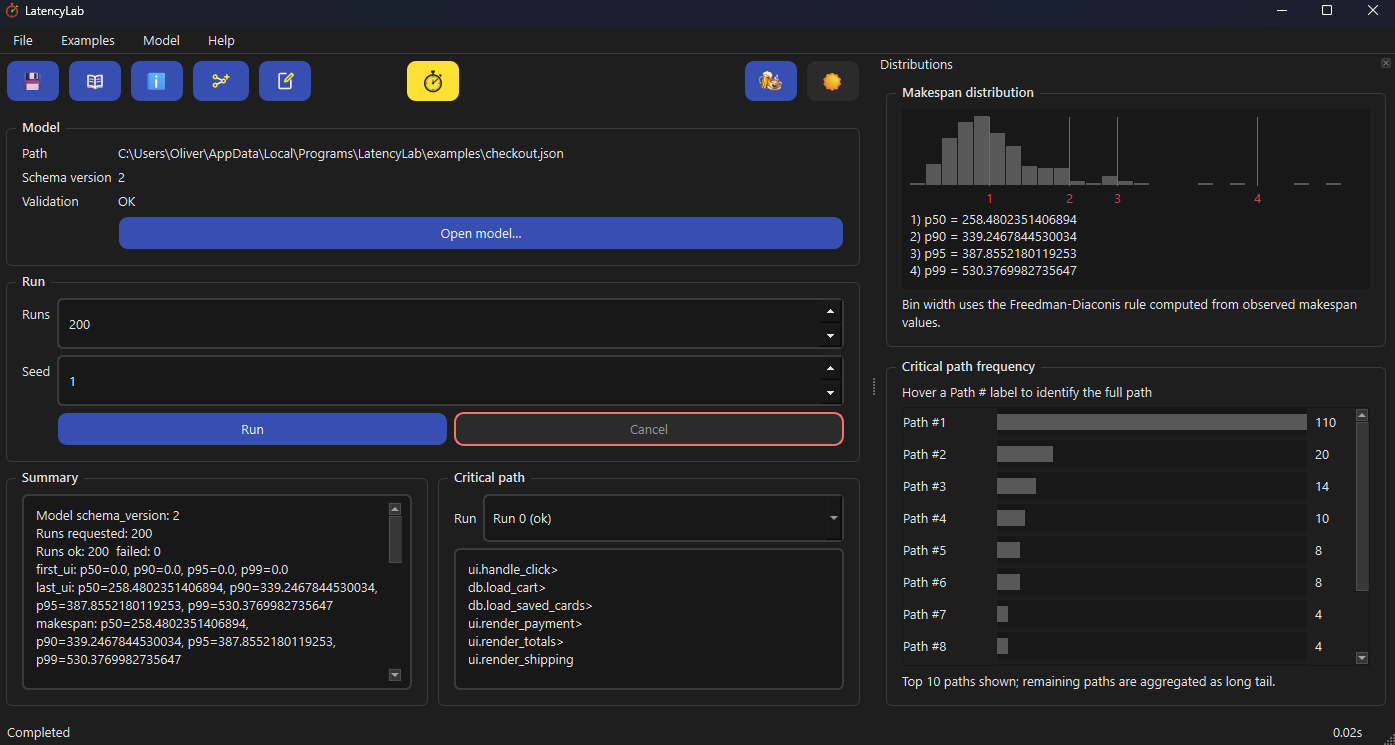
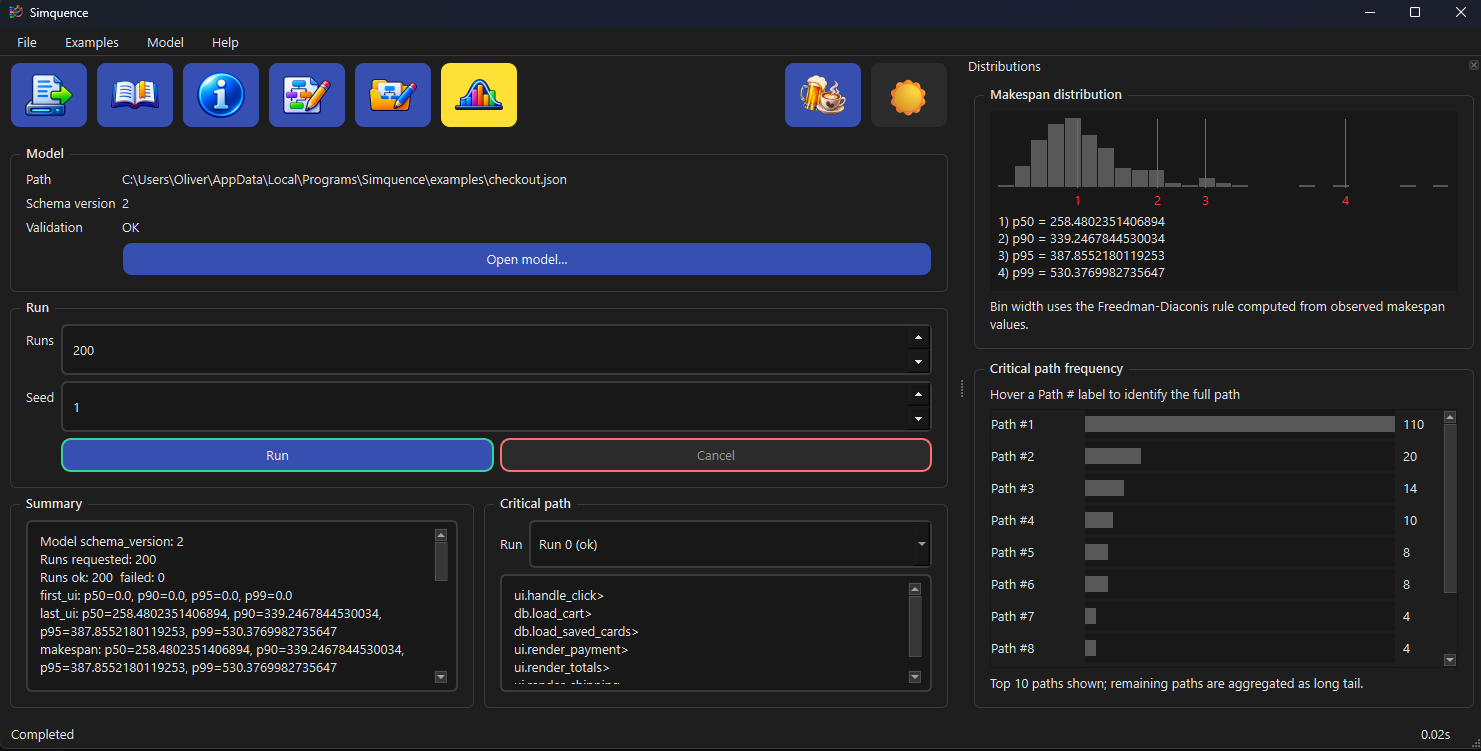
Open the Guide with the toolbar, each control led by its picture
The Guide names every toolbar control left to right, each line led by the picture the toolbar wears and a short tagline, resolved when the Guide opens. The site's main screenshot is retaken for Simquence.

diff --git a/simquence_ui/guide_toolbar.py b/simquence_ui/guide_toolbar.py
@@ -1,0 +1,99 @@
+"""The Guide's toolbar section: every control, led by the picture it wears.
+
+An icon guide showing something other than the icon is worse than no guide, so
+each line carries the same file the toolbar draws, resolved when the Guide
+opens. A picture that cannot be found leaves its line without one rather than
+stopping the Guide from opening.
+"""
+
+from __future__ import annotations
+
+from collections.abc import Callable
+from pathlib import Path
+
+from simquence_ui.icon_resolver import (
+    BOOK_ART,
+    COMPOSE_ART,
+    DISTRIBUTIONS_ART,
+    DONATE_PNG_NAME,
+    INFO_ART,
+    OPEN_EDIT_ART,
+    SAVE_EXPORT_ART,
+    get_asset_path,
+)
+from simquence_ui.theme_toggle import MOON, SUN
+
+# Height of a picture in the text. Large enough that the pictures' detail
+# survives, small enough to sit on a line of reading text.
+INLINE_ICON_PX = 32
+
+# Left to right, as the bar draws them: the picture, the name, what it does.
+TOOLBAR_LINES: tuple[tuple[str, str, str], ...] = (
+    (
+        SAVE_EXPORT_ART,
+        "Export runs",
+        "save the last run's results as a zip of plain text. Available once "
+        "something has run.",
+    ),
+    (
+        BOOK_ART,
+        "How to Read",
+        "what the histogram, the percentiles and the critical paths mean.",
+    ),
+    (COMPOSE_ART, "Compose", "write a new model in four parts, with no JSON."),
+    (
+        OPEN_EDIT_ART,
+        "Edit",
+        "change the loaded model in the same composer. Available once a model "
+        "is open.",
+    ),
+    (
+        DISTRIBUTIONS_ART,
+        "Distributions",
+        "in the middle of the bar: open or close the histogram and the "
+        "critical-path frequency chart. Available once something has run; "
+        "while the panel is open the button is yellow.",
+    ),
+    (
+        DONATE_PNG_NAME,
+        "Donate",
+        "opens the donation page in your browser. Simquence itself sends nothing.",
+    ),
+)
+
+_THEME_LINE = (
+    "switch between the light and dark themes. It shows the one it will switch TO."
+)
+_GUIDE_LINE = "this Guide."
+
+
+def _img(path: Path | None, px: int, *, square: bool = True) -> str:
+    """One picture as inline HTML, centred on the line; empty when absent."""
+
+    if path is None:
+        return ""
+    width = f'width="{px}" ' if square else ""
+    return (
+        f'<img src="file:///{path.as_posix()}" {width}height="{px}" '
+        'style="vertical-align: middle"> '
+    )
+
+
+def toolbar_html(
+    path_of: Callable[[str], Path | None] = get_asset_path,
+    px: int = INLINE_ICON_PX,
+) -> str:
+    """The section, with each picture resolved through `path_of`."""
+
+    rows = [
+        f"<p>{_img(path_of(art), px, square=art != DONATE_PNG_NAME)}"
+        f"<b>{name}</b>: {text}</p>"
+        for art, name, text in TOOLBAR_LINES
+    ]
+    rows.append(f"<p>{SUN} / {MOON} <b>Light and dark</b>: {_THEME_LINE}</p>")
+    rows.append(f"<p>{_img(path_of(INFO_ART), px)}<b>Guide</b>: {_GUIDE_LINE}</p>")
+    return (
+        "<h3>The toolbar, left to right</h3>\n"
+        + "\n".join(rows)
+        + "\n<p>Hover any button to see its name.</p>\n"
+    )

diff --git a/tests/test_ui_guide_toolbar.py b/tests/test_ui_guide_toolbar.py
@@ -1,0 +1,66 @@
+"""The Guide's toolbar section names every control, led by its real picture."""
+
+from __future__ import annotations
+
+from pathlib import Path
+
+import pytest
+
+from PySide6.QtWidgets import QApplication, QTextBrowser, QWidget
+
+from simquence_ui.guide_dialog import GuideDialog
+from simquence_ui.guide_toolbar import TOOLBAR_LINES, toolbar_html
+from simquence_ui.icon_resolver import get_asset_path
+
+
+@pytest.fixture()
+def app() -> QApplication:
+    return QApplication.instance() or QApplication([])
+
+
+# The bar's own order, left to right, by the name each line gives it.
+BAR_ORDER = (
+    "Export runs",
+    "How to Read",
+    "Compose",
+    "Edit",
+    "Distributions",
+    "Donate",
+    "Light and dark",
+    "Guide",
+)
+
+
+def test_every_control_is_named_in_the_order_the_bar_draws_them() -> None:
+    html = toolbar_html()
+    positions = [html.index(f"<b>{name}</b>") for name in BAR_ORDER]
+    assert positions == sorted(positions)
+
+
+def test_every_pictured_line_carries_the_file_the_toolbar_draws() -> None:
+    html = toolbar_html()
+    for art, _name, _text in TOOLBAR_LINES:
+        path = get_asset_path(art)
+        assert path is not None, art
+        assert path.as_posix() in html, art
+
+
+def test_a_missing_picture_leaves_the_words() -> None:
+    def nothing(_name: str) -> Path | None:
+        return None
+
+    html = toolbar_html(path_of=nothing)
+    assert "<img" not in html
+    for name in BAR_ORDER:
+        assert f"<b>{name}</b>" in html
+
+
+def test_the_open_guide_carries_the_section(app: QApplication) -> None:
+    holder = QWidget()
+    dialog = GuideDialog(holder)
+    text = dialog.findChild(QTextBrowser).toPlainText()
+    assert "The toolbar, left to right" in text
+    assert text.index("The toolbar, left to right") < text.index(
+        "Run something, in six steps"
+    )
+    holder.deleteLater()

diff --git a/simquence_ui/guide_dialog.py b/simquence_ui/guide_dialog.py
@@ -18,7 +18,8 @@ from PySide6.QtWidgets import QDialogButtonBox, QTextBrowser, QVBoxLayout, QWidg
 
 from simquence_ui.auto_scroller import attach
 from simquence_ui.first_stop_dialog import FirstStopDialog
-from simquence_ui.guide_text import GUIDE_HTML, GUIDE_TITLE
+from simquence_ui.guide_text import GUIDE_TITLE, guide_html
+from simquence_ui.guide_toolbar import toolbar_html
 from simquence_ui.pane_focus import follow_overflow
 
 # Wider than How to Read, because this one carries numbered steps and bold run
@@ -51,7 +52,7 @@ class GuideDialog(FirstStopDialog):
         # A QTextBrowser scrolls in PIXELS, which is what the reading cycle
         # needs; the plain-text widget scrolls in lines and the same gentle
         # drift becomes a whole line jumping at a time.
-        text.setHtml(GUIDE_HTML)
+        text.setHtml(guide_html(toolbar_html()))
         root.addWidget(text, 1)
         attach(text)
         follow_overflow(text)

diff --git a/simquence_ui/guide_text.py b/simquence_ui/guide_text.py
@@ -169,12 +169,24 @@ model is right. It is a way of making an argument checkable, not a way of
 avoiding having one.</p>
 """
 
-GUIDE_HTML = (
-    _INTRO
-    + _FIRST_RUN
+
+def guide_html(toolbar: str = "") -> str:
+    """The Guide, with the toolbar section after the lead-in.
+
+    The section is passed in rather than built here because its pictures are
+    files resolved when the Guide opens; this module stays words alone.
+    """
+
+    return _INTRO + toolbar + _BODY
+
+
+_BODY = (
+    _FIRST_RUN
     + _WHAT_YOU_SEE
     + _CHANGE_SOMETHING
     + _COMPOSING
     + _WHY_SETTINGS
     + _HONESTY
 )
+
+GUIDE_HTML = guide_html()
